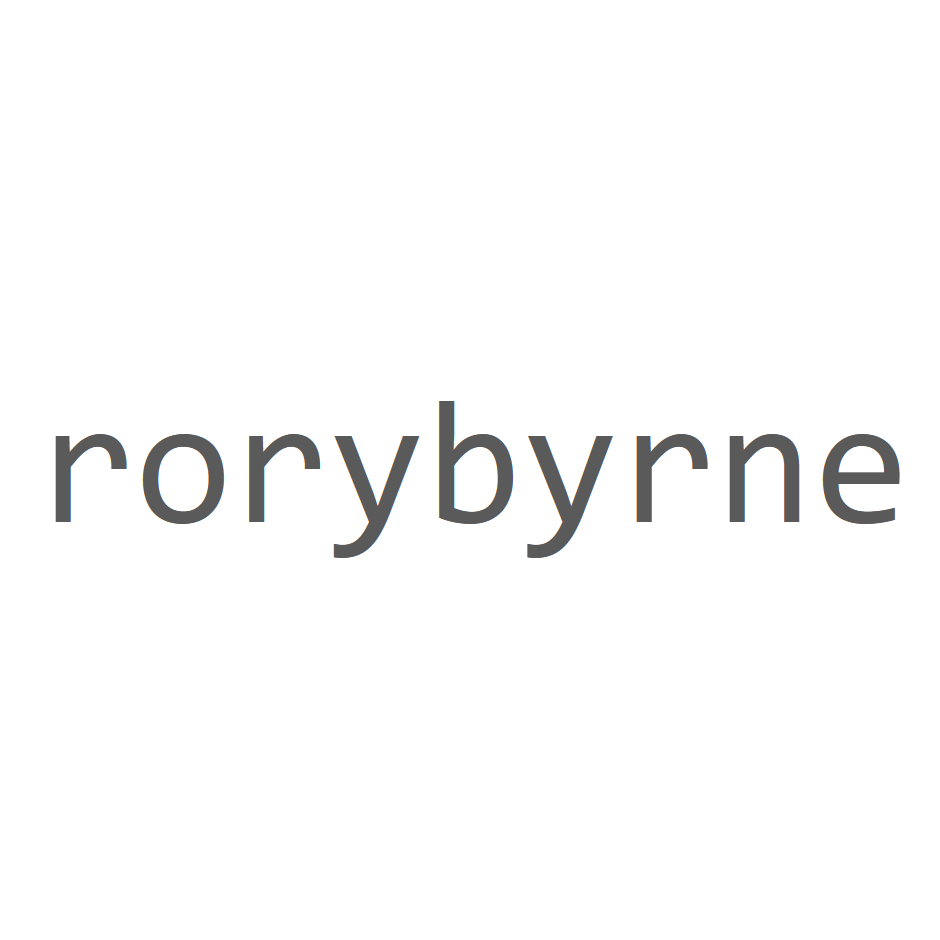
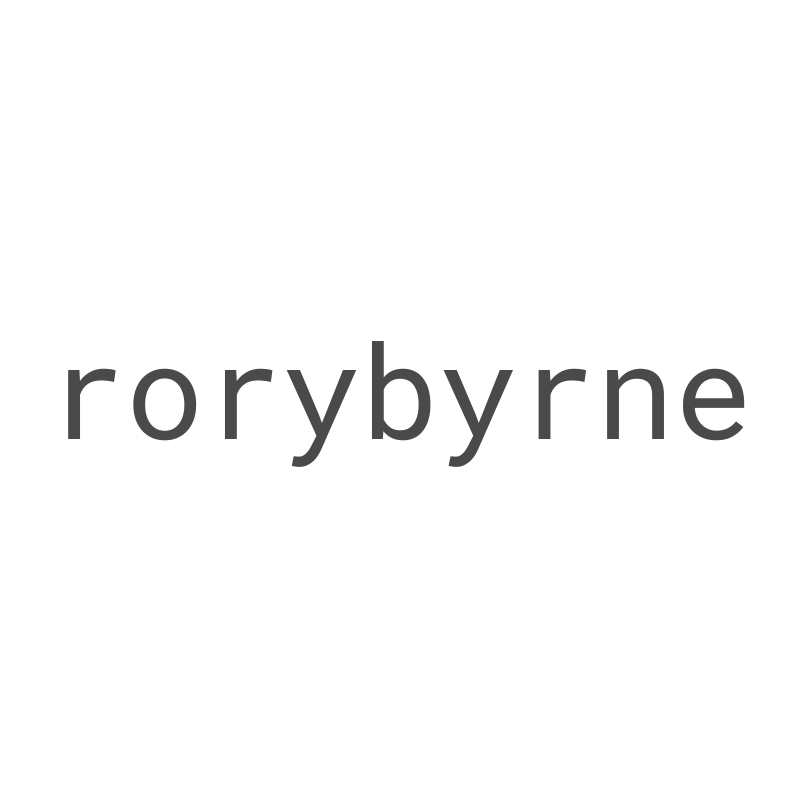
general site-wide improvements
improved button styling, moved contact to its own folder, edited some
text, switched to a consistent font, cleaned up

Changed region(s): [[0.0312, 0.4375, 0.9688, 0.5938]]

diff --git a/assets/styles.css b/assets/styles.css
@@ -191,7 +191,10 @@ ul li::before {
   width: 100%;
   max-width: 100%;
   height: auto;
-  border: 4px solid var(--body-text);
+  border-top: 4px solid #8f8f9d;
+  border-left: 4px solid #8f8f9d;
+  border-bottom: 4px solid #5f5f68;
+  border-right: 4px solid #5f5f68;
   transition: border-color 0.2s ease;
   display: block; 
 }
@@ -347,16 +350,38 @@ ul li::before {
   width: 20px;
   height: 20px;
   background: white;
-  border: 1px solid var(--body-text);
+  border: 1px solid var(--draw-grid);
   box-sizing: border-box;
 }
 
 .draw-cell.on {
-  background: var(--body-text);
+  background: var(--draw-grid);
 }
 
 .draw-button {
   border-radius: 0;
+  color: var(--body-text);
+  background-color: #e9e9ed;
+  border-top: 2px solid #8f8f9d;
+  border-left: 2px solid #8f8f9d;
+  border-bottom: 2px solid #5f5f68;
+  border-right: 2px solid #5f5f68;
+}
+
+.draw-button:hover {
+  background-color: #D0D0D7;
+  border-top: 2px solid #676774;
+  border-left: 2px solid #676774;
+  border-right: 2px solid #45454D;
+  border-bottom: 2px solid #45454D;
+}
+
+.draw-button:active {
+  background-color: #B1B1B9;
+  border-top: 2px solid #303036;
+  border-left: 2px solid #303036;
+  border-right: 2px solid #484851;
+  border-bottom: 2px solid #484851;
 }
 /*======*/
 
@@ -368,6 +393,7 @@ ul li::before {
 /* for phones */
 @media (max-width: 740px) {
   .home-title {
+    margin-top: 2em;
     font-size: 16vw;
   }
 

diff --git a/assets/colors.css b/assets/colors.css
@@ -35,10 +35,12 @@ yellow {
 :root {
   --title-text:    #4A4A4A;     /* charcoal */
   --title-hover:   #696969;     /* warm ash */
-  --body-text:     #4A4A4A;     /* soft-charcoal */
+  --body-text:     #4A4A4A;     /* charcoal */
   --body-hover:    #888888;     /* warm ash */
   --accent-text:   #C44536;
   --accent-hover:  #992a22;
+
+  --draw-grid: var(--body-text);
 
   --dark-sage:     #6F8F57;     /* dark sage */
   --sage-green:    #A8C686;     /* sage green */
@@ -56,17 +58,19 @@ yellow {
 
   --background:    #FFFFFF;     /* white */
 
-  --body-font:   "Roboto", serif;
-  --accent-font:  "Consolas", monospace, sans-serif;
+  --body-font:   "Roboto";
+  --accent-font:  "Roboto Mono", monospace;
 }
 
 :root2 {
-  --title-text:    #E5E5E5;     /* light ash white */
+  --title-text:    #EEEEEE;     /* light ash white */
   --title-hover:   #FFFFFF;     /* pure white for contrast */
-  --body-text:     #CCCCCC;     /* soft light gray */
+  --body-text:     #EEEEEE;     /* soft light gray */
   --body-hover:    #AAAAAA;     /* slightly brighter hover */
   --accent-text:   #FF6B57;     /* warm coral accent */
   --accent-hover:  #E24A38;     /* darker coral-red hover */
+
+  --draw-grid: var(--border);
 
   --rust-red:      #FF6B57;     /* brighter rust red for dark bg */
   --dark-rust:     #E24A38;     /* darker but vibrant rust red */

diff --git a/index.html b/index.html
@@ -1,17 +1,12 @@
 ---
 layout: home
-title: index
+title: root
 ---
 
 <!DOCTYPE html>
 <html>
 <head>
-  <meta charset="UTF-8">
   <title>Rory Byrne</title>
-  <link rel="stylesheet" href="https://cdnjs.cloudflare.com/ajax/libs/font-awesome/6.5.0/css/all.min.css">
-  <link href="https://fonts.googleapis.com/css2?family=Playfair+Display:wght@700&family=Roboto&display=swap" rel="stylesheet">
-  <link rel="stylesheet" href="/assets/styles.css">
-  <meta name="viewport" content="width=device-width, initial-scale=1">
 </head>
 <body class="site">
   <div class="home-content"> 

diff --git a/_layouts/home.html b/_layouts/home.html
@@ -3,7 +3,7 @@
 <head>
   <meta charset="UTF-8">
   <title>{{page.title}} | Rory Byrne</title>
-  <link href="https://fonts.googleapis.com/css2?family=Roboto&display=swap" rel="stylesheet">
+  <link href="https://fonts.googleapis.com/css2?family=Roboto&family=Roboto+Mono&display=swap" rel="stylesheet">
   <link rel="stylesheet" href="/assets/styles.css">
   <meta name="viewport" content="width=device-width, initial-scale=1">
 </head>

diff --git a/_layouts/project.html b/_layouts/project.html
@@ -2,6 +2,7 @@
 layout: default
 ---
 <a href="/works">← back to projects</a>
+<!-- <a href="/">root</a> / <a href="/works">works</a> / {{page.title}} -->
 <h1>{{ page.title }}</h1>
 <div>{{ content }}</div>
 <h2 class="skills">skills</h2>

diff --git a/_layouts/about.html b/_layouts/about.html
@@ -3,5 +3,6 @@ layout: default
 ---
 
 <a href="/about">← back to about</a>
+<!-- <a href="/">root</a> / <a href="/about">about</a> / {{page.title}} -->
 <h1>{{ page.title }}</h1>
 <div>{{ content }}</div>

diff --git a/_layouts/index.html b/_layouts/index.html
@@ -1,0 +1,6 @@
+---
+layout: default
+---
+
+<!-- <a href="/">index</a> / {{page.title}} -->
+{{content}}

diff --git a/contact/cv.md b/contact/cv.md
@@ -1,0 +1,118 @@
+---
+layout: default
+title: cv
+experience:
+  - who: Solas Oxford
+    what: Web Developer
+    where: Oxford, United Kingdom
+    when: June 2025 - Present
+  - who: The Mole Inn &bull; June - September 2025 <br> The Seven Stars At Marsh Baldon
+    what: Waiter
+    where: Oxford, United Kingdom
+    when: June - September 2024
+    notes:
+      - worked closely with other waiters to ensure smooth operations
+      - efficiently managed multiple tables and orders
+      - developed strong communication skills through daily interactions with customers
+  - who: Rutherford Appleton Laboratory
+    what: ISIS Synchrotron Group Work Experience
+    where: Didcot, United Kingdom
+    when: June - July 2023
+    notes:
+      - worked in teams developing GUIs in Python to help accelerator physicists understand proton beams
+      - responsible for creating peak and loss finders for live MQTT beam intensity monitor data using NumPy
+      - employed the agile methodology, regularly presenting our progress to our clients and implementing feedback
+      - delivered a comprehensive presentation on our GUI and project journey to a panel of physicists
+      
+education:
+  - who: University College London (UCL)
+    what: BSc Computer Science
+    where: London, United Kingdom
+    when: September 2024 - June 2027
+    notes:
+      - achieved a grade of 85.31% in first year
+  - who: Wheatley Park School
+    what: A-Levels and GCSEs
+    where: Oxford, United Kingdom
+    when: September 2017 - June 2024
+    notes:
+      - achieved A*A*A* in Mathematics, Computer Science, Physics, and A in Further Mathematics AS
+      - achieved 11 GCSEs at grades 7-9
+
+achievements:
+  - Distinction award and Best in School in Elite Bebras Computing Challenges 2022 and 2023
+  - Senior Kangaroo award and Best in School in Senior Maths Challenges 2022 and 2023
+  - FUZE Wheatley Park Excellence in Computing 2023 award
+  - achieved 100th percentile out of all Computer Science applicants in the UCL STAT admissions test
+  - achieved 10th in the UK in the Náboj International Mathematics Competition 2023 working in a team of 5
+  - achieved runners up out of over 1200 schools in the Ritangle 2023 competition working with my peers
+
+skills:
+  - languages:
+      - Python
+      - C/C++
+      - Haskell
+      - Java
+      - JavaScript
+      - HTML
+      - SQL
+  - tools:
+      - Git
+      - GitHub
+      - Jupyter
+      - Jekyll
+---
+
+# cv
+
+<a href="/assets/CV.pdf" target="_blank" aria-label="CV">view pdf</a>
+
+## experience
+
+<div class="cv-list">
+{% assign experience = page.experience %}
+{% for e in experience %}
+    <div class="cv-entry">
+      <strong>{{ e.what }}</strong><br>
+      {{ e.who }} &bull; {{ e.when }}
+      <div class="cv-where">{{ e.where }}</div>
+      {% if e.notes %}
+        <ul class="cv-notes">
+          {% for note in e.notes %}
+            <li>{{ note }}</li>
+          {% endfor %}
+        </ul>
+      {% endif %}
+    </div>
+{% endfor %}
+</div>
+
+
+## education
+
+<div class="cv-list">
+{% assign education = page.education %}
+{% for e in education %}
+  <div class="cv-entry">
+      <strong>{{ e.who }}</strong><br>
+      {{ e.what }} &bull; {{ e.when }}
+      <div class="cv-where">{{ e.where }}</div>
+      {% if e.notes %}
+        <ul class="cv-notes">
+          {% for note in e.notes %}
+            <li>{{ note }}</li>
+          {% endfor %}
+        </ul>
+      {% endif %}
+    </div>
+{% endfor %}
+</div>
+
+## awards and achievements
+
+{% assign achievements = page.achievements %}
+<ul class="cv-notes">
+  {% for a in achievements %}
+    <li>{{ a }}</li>
+  {% endfor %}
+</ul>

diff --git a/works/twin-stick-shooter.md b/works/twin-stick-shooter.md
@@ -13,8 +13,8 @@ skills:
 
 In Computer Science A-Level, every student is required to do a Non-Exam Assessment (NEA). This is a coursework where you choose a problem and then create a solution along with a document that documents the process.
 
-I chose the problem of a friend not having a fun retro-style video game to play with his friends. I came up with the problem after having the idea for the solution, a retro-style twin-stick shoot-em-up game, heavily inspired by *Journey of The Prairie King* which is a mini game in *Stardew Valley*. I put a lot of time into this project, creating the game along with a design document, and I got 73/75. <a href="/assets/Computer%20Science%20NEA.pdf" target="_blank">Here</a> is my long design document detailing the creation process and the code, the code can also be found <a href="https://github.com/RoryByrne1/Twin-Stick-Shooter" target="_blank">on my github</a>. Most of the work on this project took place between October 2023 and March 2024 I think.
+I wanted to make a retro-style twin-stick shoot-em-up game, heavily inspired by the *Journey of The Prairie King* minigame in *Stardew Valley*, and so made up a problem that conveniently required me to do just that. I put a lot of time into this project, creating the game along with a design document, and my work was marked 73/75. <a href="/assets/Computer%20Science%20NEA.pdf" target="_blank">Here</a> is my long design document detailing the creation process and the code can be found <a href="https://github.com/RoryByrne1/Twin-Stick-Shooter" target="_blank">on my github</a>. I have since learnt better code organisation. Most of the work on this project took place between October 2023 and March 2024 I think.
 
 In the game, players control a completely customisable character, using their gun to fend off waves of enemies that spawn from all sides. Enemies vary in speed, health, and movement patterns, with tougher types appearing later. Randomly dropped items grant temporary boosts and abilities. The goal is to survive as long as possible, score points, and climb up the leaderboards. A local account system lets each player create an account that saves their statistics, high scores, and custom character, while local multiplayer allows two players to team up for combined scores.
 
-I'm very proud of this project. I think the game is well made, well thought out, and can be pretty fun. I made all the art myself using Aseprite (I did choose 8x8 pixel art because it would be easy to draw), I made sound effects and little jingles using FamiTracker, I'm pretty proud of the design document, and I didn't use any AI in any of the development (I didn't really know about it at the time).
+I'm very proud of this project. I think the game is well made, well thought out, and can be pretty fun. I made all the art myself using Aseprite, I made sound effects and little jingles using FamiTracker, I'm pretty proud of the design document, and I didn't use any AI in any of the development (I didn't really know about it at the time).

diff --git a/works/draw.md b/works/draw.md
@@ -14,7 +14,7 @@ I created a page on my website that lets you <a href="/draw" target="new">draw</
 
 You can export your drawing as a PNG. This uses a canvas, redrawing your drawing at 16 times the scale and then downloading it as a PNG.
 
-You can generate a link to your drawing. This encodes the drawing into a binary string and then into a hex string, adding it as a parameter to the URL. When you open the URL, the hex is decoded into a binary string and then into the grid.
+You can generate and copy a link to your drawing. This encodes the drawing into a binary string and then into a hex string, adds it as a parameter to a URL, and then copies this URL to your clipboard. When you open the URL, the hex is decoded into a binary string and then into the grid.
 
 You can email me the drawing. This opens a link with a prefilled subject and body containing your drawing's URL. I initially wanted to send the PNG but that is impossible without a server of sorts. I then tested out representing the grid as ASCII art in the email body but it couldn't format well with body length restrictions. Then I got the idea for encoding the grid and generating links. I added a filter to my inbox that automatically categorises these emails.
 

diff --git a/works/this.md b/works/this.md
@@ -11,6 +11,6 @@ skills:
   - git
 ---
 
-I built this website from scratch using Jekyll and custom HTML, CSS, and Liquid templates. This site is open source and hosted on GitHub pages, the code can be found <a href="https://github.com/RoryByrne1/rorybyrne1.github.io" target="_blank" aria-label="GitHub">on my GitHub</a>. All content, design, and code were created and are maintained by me.
+I built this website using Jekyll and custom HTML, CSS, and Liquid templates. This site is open source and hosted on GitHub pages, the code can be found <a href="https://github.com/RoryByrne1/rorybyrne1.github.io" target="_blank" aria-label="GitHub">on my GitHub</a>. All content, design, and code were created and are maintained by me.
 
 This site is a constant work in progress.

diff --git a/contact/index.md b/contact/index.md
@@ -1,0 +1,31 @@
+---
+layout: index
+title: contact
+---
+
+# contact
+<!-- 
+## [email](https://mailto/) 
+
+## linked in
+
+## github
+
+## [CV](/assets/CV.pdf) -->
+
+<div class="contact-icons">
+  <ul>
+    <li><a href="cv" aria-label="CV">
+      cv
+    </a></li>
+    <li><a href="https://linkedin.com/in/rory-byrne1" target="_blank" aria-label="LinkedIn">
+      linkedin
+    </a></li>
+    <li><a href="https://github.com/rorybyrne1" target="_blank" aria-label="GitHub">
+      github
+    </a></li>
+    <li><a href="mailto:rory26byrne@gmail.com" target="_blank" aria-label="Email">
+      email
+    </a></li>
+  </ul>
+</div>
